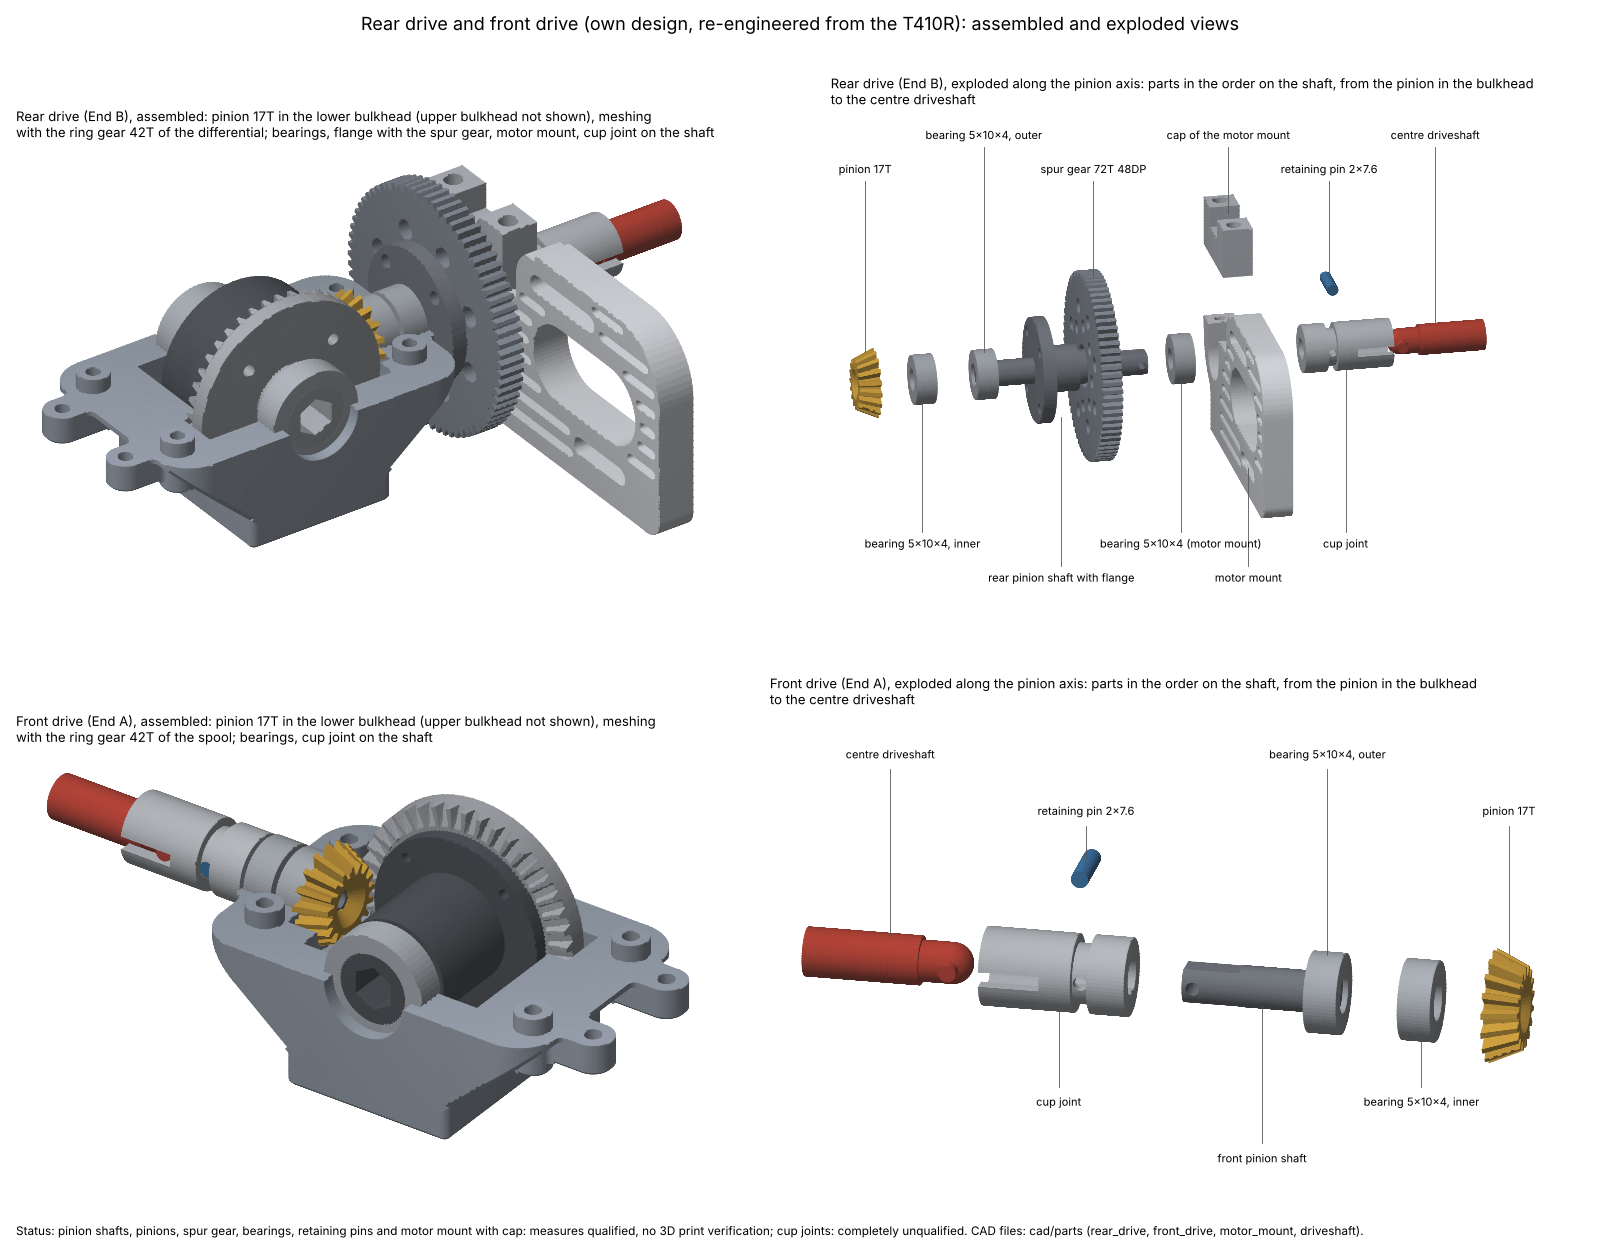
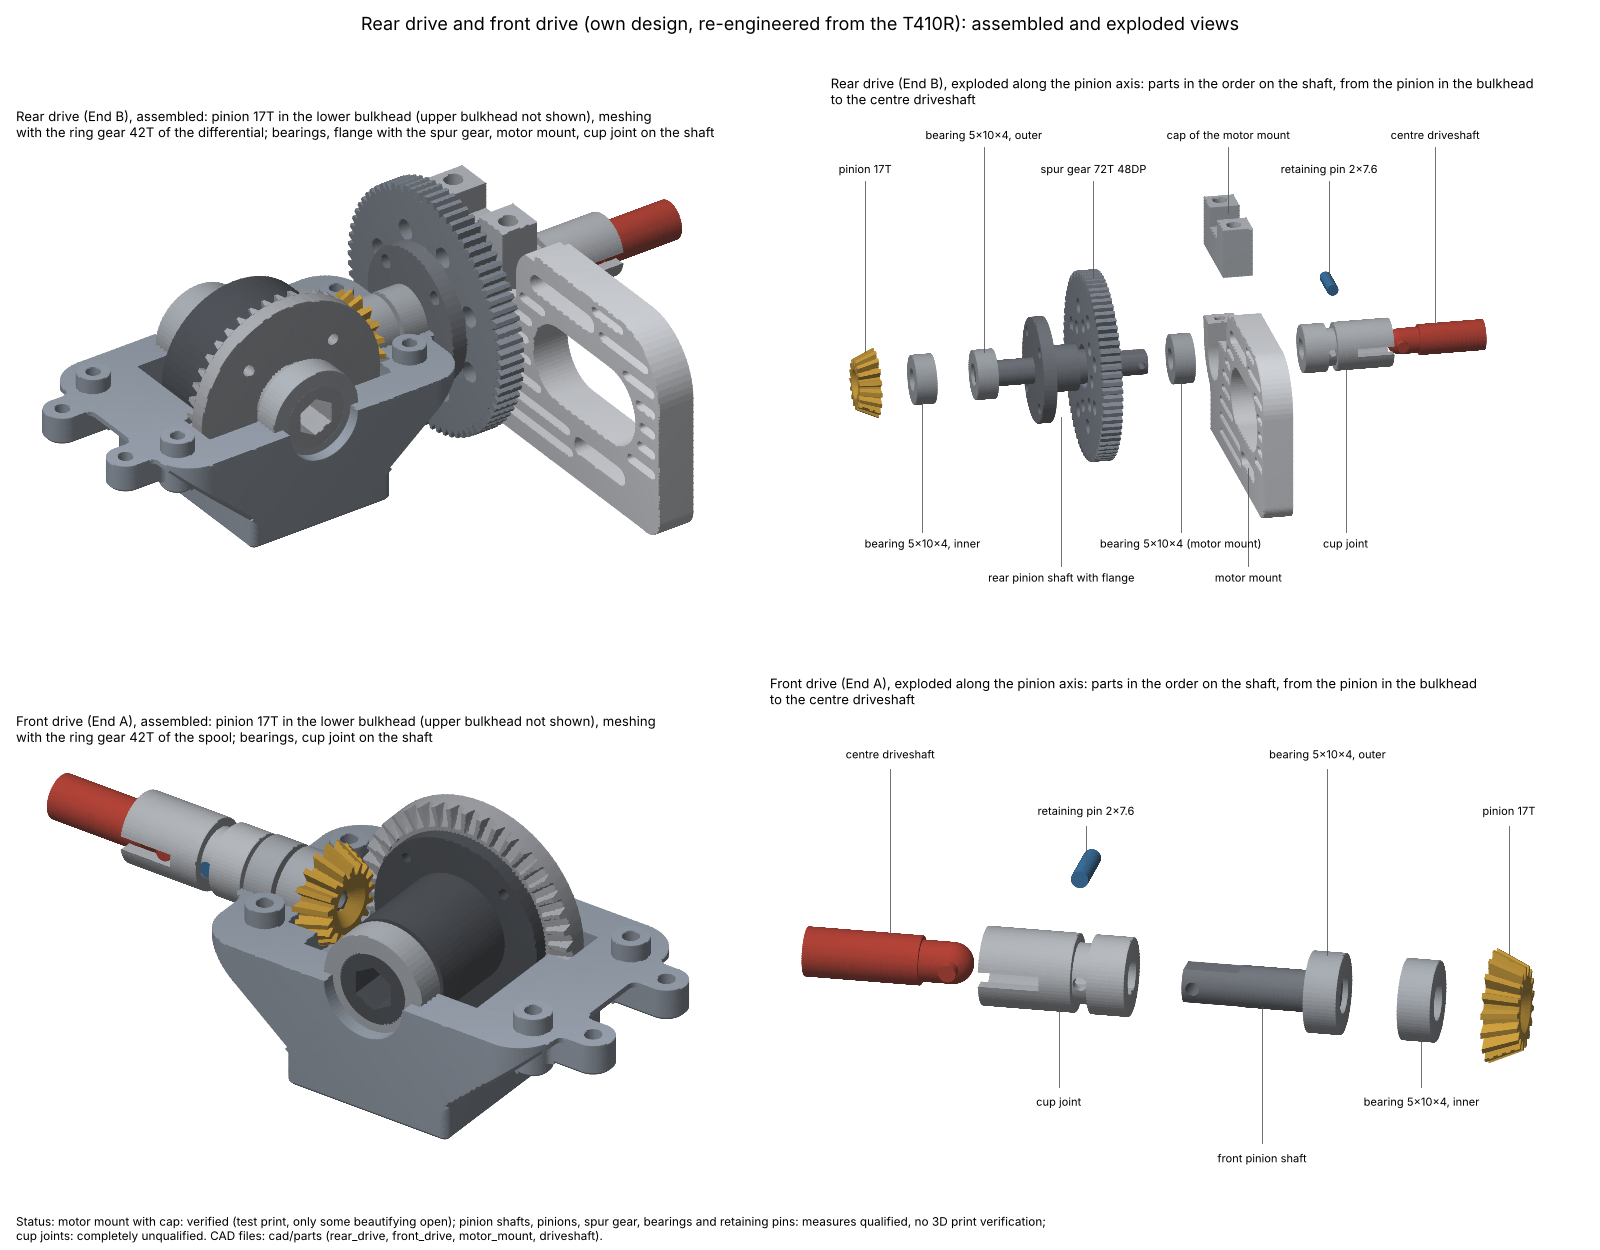
Motor mount verified with a test print
- Status green in both readmes, the parts readme and the drive line
  drawings: technically good, only some beautifying of the shape is open

Claude-Session: https://claude.ai/code/session_012MJxxFKjiSK74mxYNyHG3r

Changed region(s): [[0.0, 0.9672, 0.6875, 0.9984], [0.7188, 0.9672, 0.7812, 0.9984], [0.8125, 0.9672, 0.8438, 0.9984]]

diff --git a/scripts/cad/generate_driveshaft.py b/scripts/cad/generate_driveshaft.py
@@ -699,8 +699,8 @@ def drawing(path, p, lay, items):
 
     z = lay["z"]
     fig = plt.figure(figsize=(15, 10))
-    fig.suptitle("Centre driveshaft with the drive line (own design, re-engineered from the T410R; measures "
-                 "qualified, no 3D print verification)", fontsize=12, y=0.985)
+    fig.suptitle("Centre driveshaft with the drive line (own design, re-engineered from the T410R; motor mount verified "
+                 "with a test print, the other parts measures qualified)", fontsize=12, y=0.985)
     ax = fig.add_axes([0.04, 0.57, 0.92, 0.36])
     draw(ax)
     y0, y1 = lay["shaft"]
@@ -960,8 +960,9 @@ def drive_assembly_drawing(p, lp, path=ASSEMBLY_DRAWING):
                [(s, lab, pos) for s, lab, _, pos in moved])
         ax.set_title(f"{name}, exploded along the pinion axis: parts in the order on the shaft, from the pinion in the "
                      "bulkhead\nto the centre driveshaft", fontsize=9.5, loc="left")
-    fig.text(0.01, 0.012, "Status: pinion shafts, pinions, spur gear, bearings, retaining pins and motor mount with cap: measures "
-             "qualified, no 3D print verification; cup joints: completely unqualified. CAD files: cad/parts (rear_drive, "
+    fig.text(0.01, 0.008, "Status: motor mount with cap: verified (test print, only some beautifying open); pinion shafts, "
+             "pinions, spur gear, bearings and retaining pins: measures qualified, no 3D print verification;\ncup joints: "
+             "completely unqualified. CAD files: cad/parts (rear_drive, "
              "front_drive, motor_mount, driveshaft).", fontsize=8.5)
     fig.savefig(path, dpi=100)
     plt.close(fig)

diff --git a/cad/readme.md b/cad/readme.md
@@ -92,7 +92,7 @@ Re-engineered parts (own design of the owner, re-engineered from the T410R, not 
 | [Cup joints of the centre driveshaft](#centre-driveshaft-and-drive-line) | 2 | `/parts/driveshaft` | $\color{red}\times$ Completely unqualified |
 | [Rear pinion shaft with pinion 17T, spur gear 72T, bearings and retaining pin](#centre-driveshaft-and-drive-line) | 1 | `/parts/rear_drive` | $\color{gold}\blacktriangle$ Measures qualified, no 3D print verification |
 | [Front pinion shaft with pinion 17T, bearings and retaining pin](#centre-driveshaft-and-drive-line) | 1 | `/parts/front_drive` | $\color{gold}\blacktriangle$ Measures qualified, no 3D print verification |
-| [Motor mount with cap](#centre-driveshaft-and-drive-line) | 1 | `/parts/motor_mount` | $\color{gold}\blacktriangle$ Measures qualified, no 3D print verification |
+| [Motor mount with cap](#centre-driveshaft-and-drive-line) | 1 | `/parts/motor_mount` | $\color{green}\checkmark$ Verified (test print; technically good, only some beautifying of the shape is open) |
 | [Differential (End B) with ring gear 42T, inner gears and bearings](#differentials) | 1 | `/parts/diff` | $\color{gold}\blacktriangle$ Measures qualified, no 3D print verification |
 | [Spool (End A) with ring gear 42T and bearings](#differentials) | 1 | `/parts/diff` | $\color{gold}\blacktriangle$ Measures qualified, no 3D print verification |
 | [Diff outdrives](#centre-driveshaft-and-drive-line) | 4 | `/parts/diff_outdrive` | $\color{red}\times$ Completely unqualified |
@@ -734,7 +734,7 @@ All files are stored in the directory `/parts/pivot_block`. They are generated w
 ### Centre driveshaft and drive line
 * **Author:** [@kleinnconrad](https://github.com/kleinnconrad)
 * **Description:** Model of the centre driveshaft of the Carten T410R between the cup joints of the two pinion shafts. The shaft has a ball end at each end with a metal pin (2.0 x 7.6 mm), which is fixed on the shaft. The cup joints are pushed onto the pinion shafts and secured with a retaining pin 2.0 x 7.6 mm through a cross hole; an O-ring in a groove of the cup joint holds the pin. The pins run in the slots of the cup joints, so the shaft turns with the cup joints. In the centred position, each pin has 0.5 mm to the closed end of its slot, so the shaft can move a little back and forth. At End A, the cup joint sits on the front pinion shaft beside the bulkhead. At End B (motor), the rear pinion shaft runs from the pinion in the bulkhead through a flange with the spur gear and the bearing in the motor mount (manual steps 5, 10 and 12); the cup joint sits on its end beyond the motor mount. All these parts are modelled as CAD files (see [files](#centre-driveshaft-and-drive-line)).
-* **Status:** $\color{gold}\blacktriangle$ Measures qualified, no 3D print verification: centre driveshaft, motor mount with cap, rear and front drive line (pinion shafts, pinions, spur gear, bearings, retaining pins; some dimensions from photos of the owner). $\color{red}\times$ Completely unqualified: cup joints and diff outdrives. The cup joints, the thickness of the motor mount and the spur gear (72T 48DP) are given by the owner, the positions of the motor mount and the spur gear are derived from the chassis plate, the outline of the motor mount and its cap follow the manual (steps 10 and 25). The thicknesses of the spur gear and the flange and the gaps are typical values (see [open points of the centre driveshaft](#centre-driveshaft-and-drive-line)).
+* **Status:** $\color{green}\checkmark$ Verified: motor mount with cap (test print of the owner: technically good, only some beautifying of the shape is open). $\color{gold}\blacktriangle$ Measures qualified, no 3D print verification: centre driveshaft, rear and front drive line (pinion shafts, pinions, spur gear, bearings, retaining pins; some dimensions from photos of the owner). $\color{red}\times$ Completely unqualified: cup joints and diff outdrives. The cup joints, the thickness of the motor mount and the spur gear (72T 48DP) are given by the owner, the positions of the motor mount and the spur gear are derived from the chassis plate, the outline of the motor mount and its cap follow the manual (steps 10 and 25). The thicknesses of the spur gear and the flange and the gaps are typical values (see [open points of the centre driveshaft](#centre-driveshaft-and-drive-line)).
 
 ![Centre driveshaft with the drive line and the motor mount](../photos/cad_driveshaft_drawing.png)
 
@@ -783,7 +783,7 @@ Results of `generate_driveshaft.py`:
 **Open points of the centre driveshaft**
 
 * Not measured: thickness of the spur gear (4.0 mm), dimensions of the rear pinion shaft from the photos (flange 21.7 x 2.5 mm, spigot 9.3 mm, shoulder 6.7 mm, flats 4.2 mm across) and of the pinion (length 4.1 mm from the side photo), the gaps between the motor mount or the pinion housing and the cup joints (0.5 mm), depths of the bores of the cup joints, opening of the lip of the bearing seat (8.0 mm), outline of the tall part of the motor mount (height, long holes) and of the cap (width, notch).
-* Motor mount: the measured height of the low part (MM3: 23.2 mm, photo of the owner: 23.25 mm) does not fit the stack: with the cap (10.2 mm) below the top brace (34.6 mm above the bottom face of the chassis plate), the low part is 22.4 mm high in the model; the bearing seat is kept as it is (owner). The depth of the U notch (MM2: 10.3 mm) fits within 0.2 mm. Not measured: depth of the grooves on the face toward the spur gear (1.5 mm assumed). Open: MM5 (does the set screw of the cap touch the bearing).
+* Motor mount: verified with a test print (owner); technically good, only some beautifying of the shape is open. The measured height of the low part (MM3: 23.2 mm, photo of the owner: 23.25 mm) does not fit the stack: with the cap (10.2 mm) below the top brace (34.6 mm above the bottom face of the chassis plate), the low part is 22.4 mm high in the model; the bearing seat is kept as it is (owner). The depth of the U notch (MM2: 10.3 mm) fits within 0.2 mm. Not measured: depth of the grooves on the face toward the spur gear (1.5 mm assumed). Open: MM5 (does the set screw of the cap touch the bearing).
 * Length of the shaft: checked with a ruler (173.0 mm over the ball ends); the model uses this length.
 * Spur gear: the specifications (`spec_spur_gear.yaml`, `spec_gearing.yaml`) and the setup sheet list a 68T spur gear; the model uses the standard 72T 48DP spur gear of the owner.
 

diff --git a/readme.md b/readme.md
@@ -74,7 +74,7 @@ Re-engineered parts (own design, re-engineered from the T410R, not in the mass t
 | Cup joints of the centre driveshaft | 2 | $\color{red}\times$ Completely unqualified | `cad/parts/driveshaft` |
 | Rear pinion shaft with pinion 17T, spur gear 72T, bearings and retaining pin | 1 | $\color{gold}\blacktriangle$ Measures qualified, no 3D print verification | `cad/parts/rear_drive` |
 | Front pinion shaft with pinion 17T, bearings and retaining pin | 1 | $\color{gold}\blacktriangle$ Measures qualified, no 3D print verification | `cad/parts/front_drive` |
-| Motor mount with cap | 1 | $\color{gold}\blacktriangle$ Measures qualified, no 3D print verification | `cad/parts/motor_mount` |
+| Motor mount with cap | 1 | $\color{green}\checkmark$ Verified (test print; technically good, only some beautifying of the shape is open) | `cad/parts/motor_mount` |
 | Differential (End B) with ring gear 42T, inner gears and bearings | 1 | $\color{gold}\blacktriangle$ Measures qualified, no 3D print verification | `cad/parts/diff` |
 | Spool (End A) with ring gear 42T and bearings | 1 | $\color{gold}\blacktriangle$ Measures qualified, no 3D print verification | `cad/parts/diff` |
 | Diff outdrives | 4 | $\color{red}\times$ Completely unqualified | `cad/parts/diff_outdrive` |
@@ -91,7 +91,7 @@ Re-engineered parts (own design, re-engineered from the T410R, not in the mass t
 | Sway bars with holders, ball ends and drop links | 2 | $\color{red}\times$ Completely unqualified | `cad/running_gear/sway_bars` |
 | Dampers (standard 1:10 on-road, purchased) | 4 | $\color{red}\times$ Completely unqualified | Assembly only |
 
-* Status: $\color{green}\checkmark$ verified (test print or on the car), $\color{gold}\blacktriangle$ measures qualified, no 3D print verification, $\color{red}\times$ completely unqualified. All parts of the speedrun design are verified. Of the re-engineered parts, the pivot blocks are verified with a 3D printed prototype; the centre driveshaft, the drive lines (pinion shafts, pinions, spur gear), the motor mount, the differentials, the wishbones and the steering knuckles are qualified by measurements (caliper and photos of the owner); the running gear and the other parts are not qualified. The parts marked red are first designs: they still need a lot of refinement (dimensions, strength, fit and function on the car) and are not ready for manufacturing. The bulkheads have radii and edge chamfers on the outer side for CNC milling; the inside of the parts is the verified geometry (see [edges of the outer shape](cad/readme.md#design-of-the-lower-bulkhead)). The original shock tower plates do not fit the speedrun upper bulkhead; the [speedrun shock towers](cad/readme.md#speedrun-shock-towers) are designed for it. All holes of the towers are at the positions of the original towers; the shock tower wall of the upper bulkhead is narrowed so that the rod ends of the camber links have space beside it. The status of each part, the open points and all files are described in the [CAD readme](cad/readme.md#speedrun-chassis).
+* Status: $\color{green}\checkmark$ verified (test print or on the car), $\color{gold}\blacktriangle$ measures qualified, no 3D print verification, $\color{red}\times$ completely unqualified. All parts of the speedrun design are verified. Of the re-engineered parts, the pivot blocks and the motor mount are verified with a 3D printed prototype (the motor mount only needs some beautifying of the shape); the centre driveshaft, the drive lines (pinion shafts, pinions, spur gear), the differentials, the wishbones and the steering knuckles are qualified by measurements (caliper and photos of the owner); the running gear and the other parts are not qualified. The parts marked red are first designs: they still need a lot of refinement (dimensions, strength, fit and function on the car) and are not ready for manufacturing. The bulkheads have radii and edge chamfers on the outer side for CNC milling; the inside of the parts is the verified geometry (see [edges of the outer shape](cad/readme.md#design-of-the-lower-bulkhead)). The original shock tower plates do not fit the speedrun upper bulkhead; the [speedrun shock towers](cad/readme.md#speedrun-shock-towers) are designed for it. All holes of the towers are at the positions of the original towers; the shock tower wall of the upper bulkhead is narrowed so that the rod ends of the camber links have space beside it. The status of each part, the open points and all files are described in the [CAD readme](cad/readme.md#speedrun-chassis).
 * The legend lists the colours of the speedrun parts and of the re-engineered parts. The inset at the right of the 3D view shows the differential at End B in section with the pinion (the design of the differential: [CAD readme](cad/readme.md#differentials)). The bottom row shows close-ups of End A and End B from the outer end and of the drive line at End B (spur gear, motor mount with cap, cup joint) from the middle of the car, without the top brace and the shock tower. The design of the running gear (caster, steering, Ackermann): [CAD readme](cad/readme.md#running-gear).
 * The assembly is available as a STEP file (`cad/assembly/speedrun_chassis_T410R.step`).
 

diff --git a/cad/parts/readme.md b/cad/parts/readme.md
@@ -6,7 +6,7 @@ Status: $\color{green}\checkmark$ verified (test print or on the car), $\color{g
 * **`/pivot_block`**: Pivot blocks of the wishbones, long block (1 piece) and short block (3 pieces), STEP, STL and parameter file. Status: $\color{green}\checkmark$ verified (3D printed prototype, bores 5.0 mm for the hinge pins). Description and checks: see the [CAD readme](../readme.md#pivot-blocks).
 * **`/driveshaft`**: Centre driveshaft between the pinions of the two bulkheads, with the fixed metal pins, and the cup joints, STEP and STL; parameter file of all drive line parts. Status: $\color{gold}\blacktriangle$ measures qualified, no 3D print verification (centre driveshaft); cup joints: $\color{red}\times$ completely unqualified.
 * **`/rear_drive`**: Rear pinion shaft with flange, pinion 17T, spur gear 72T 48DP, bearing 5x10x4 and retaining pin of the cup joint, STEP and STL. Status: $\color{gold}\blacktriangle$ measures qualified, no 3D print verification.
-* **`/motor_mount`**: Motor mount for 540 motors and its cap as the original part (photos of the owner), with longer long holes of the motor screws, STEP and STL. Status: $\color{gold}\blacktriangle$ measures qualified, no 3D print verification.
+* **`/motor_mount`**: Motor mount for 540 motors and its cap as the original part (photos of the owner), with longer long holes of the motor screws, STEP and STL. Status: $\color{green}\checkmark$ verified with a test print (technically good, only some beautifying of the shape is open).
 * **`/camber_link`**: Camber links (4 pieces): turnbuckle M3x37, rod end, ball stud and the assembled front and rear link, STEP, STL and parameter file, generated with `scripts/cad/generate_camber_links.py`. Status: $\color{red}\times$ completely unqualified (rod ends and ball studs assumed). Description: see the [CAD readme](../readme.md#camber-links).
 * **`/front_drive`**: Front pinion shaft (End A), STEP and STL; pinion, bearings and retaining pin as in `/rear_drive`. Status: $\color{gold}\blacktriangle$ measures qualified, no 3D print verification.
 * **`/diff`**: Differential (End B): case, ring gear 42T with hub and hexagon bore, side gears 14T, spider gears 9T, cross pin, shims and bearing 10x15x4; spool (End A) with the same ring gear, bearings and outdrives; STEP and STL. Fits the bearing seats, the case cavity and the ring gear recess of the bulkhead and meshes with the pinion 17T. Status: $\color{gold}\blacktriangle$ measures qualified, no 3D print verification. Description: see the [CAD readme](../readme.md#differentials).
